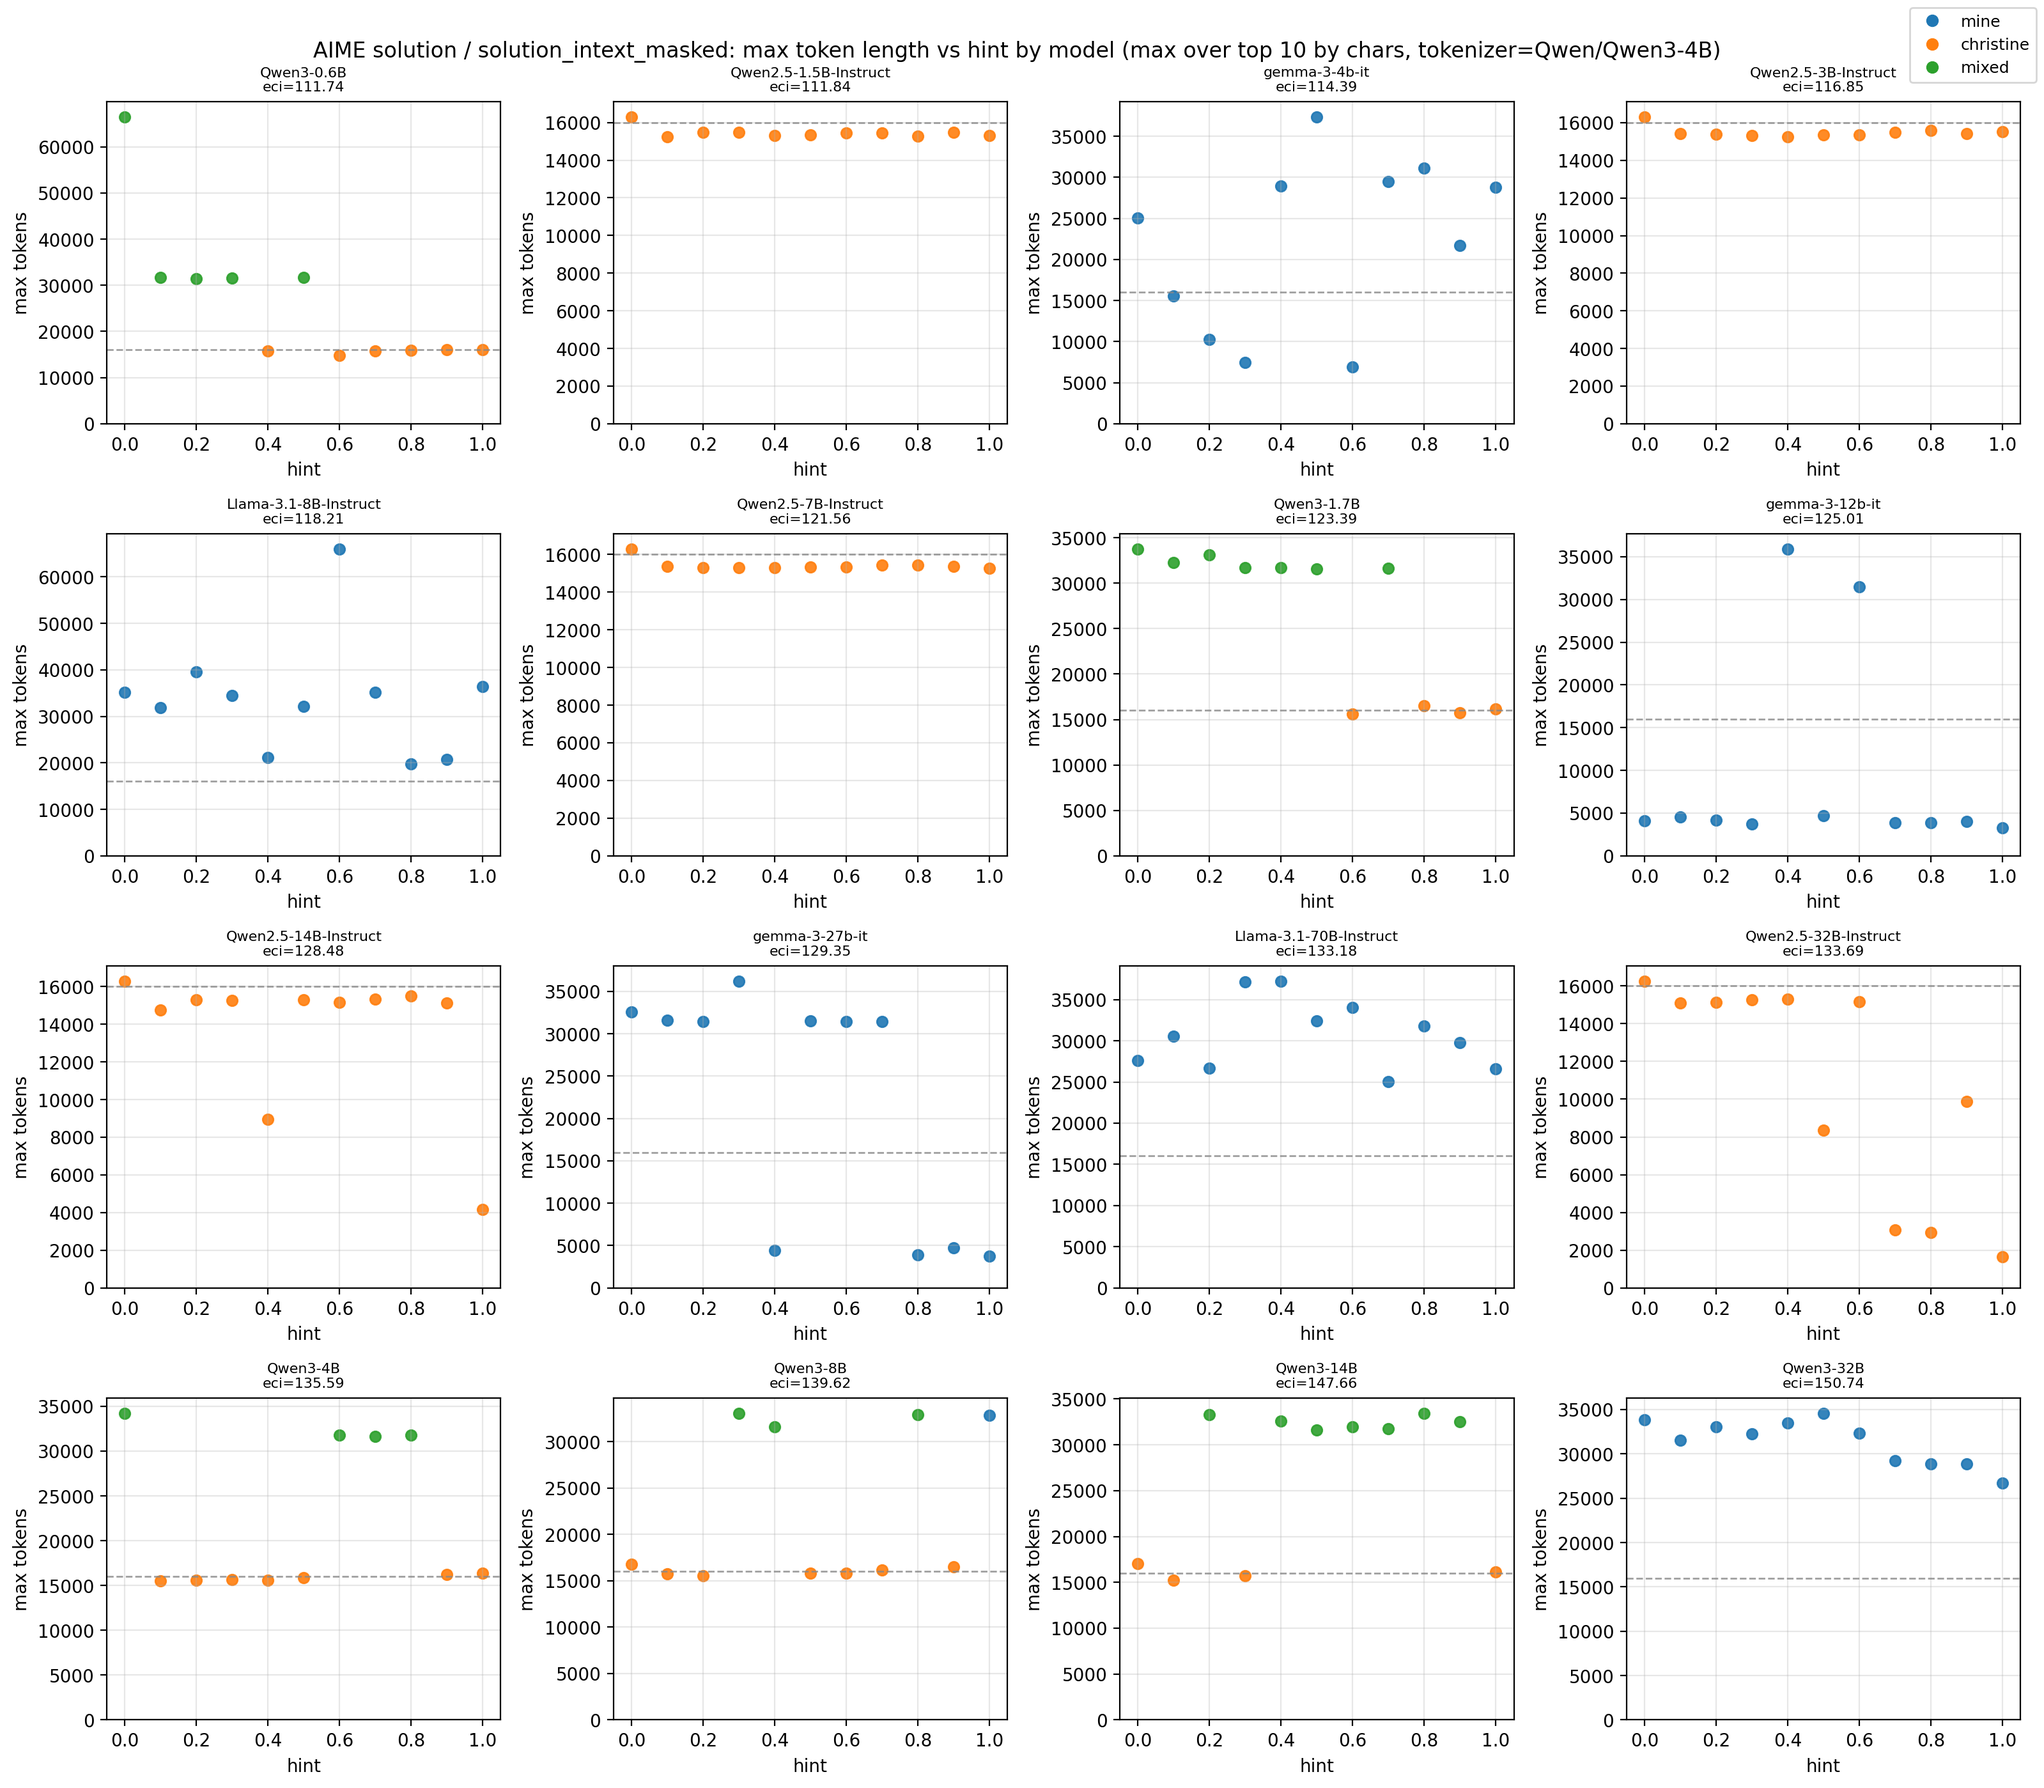
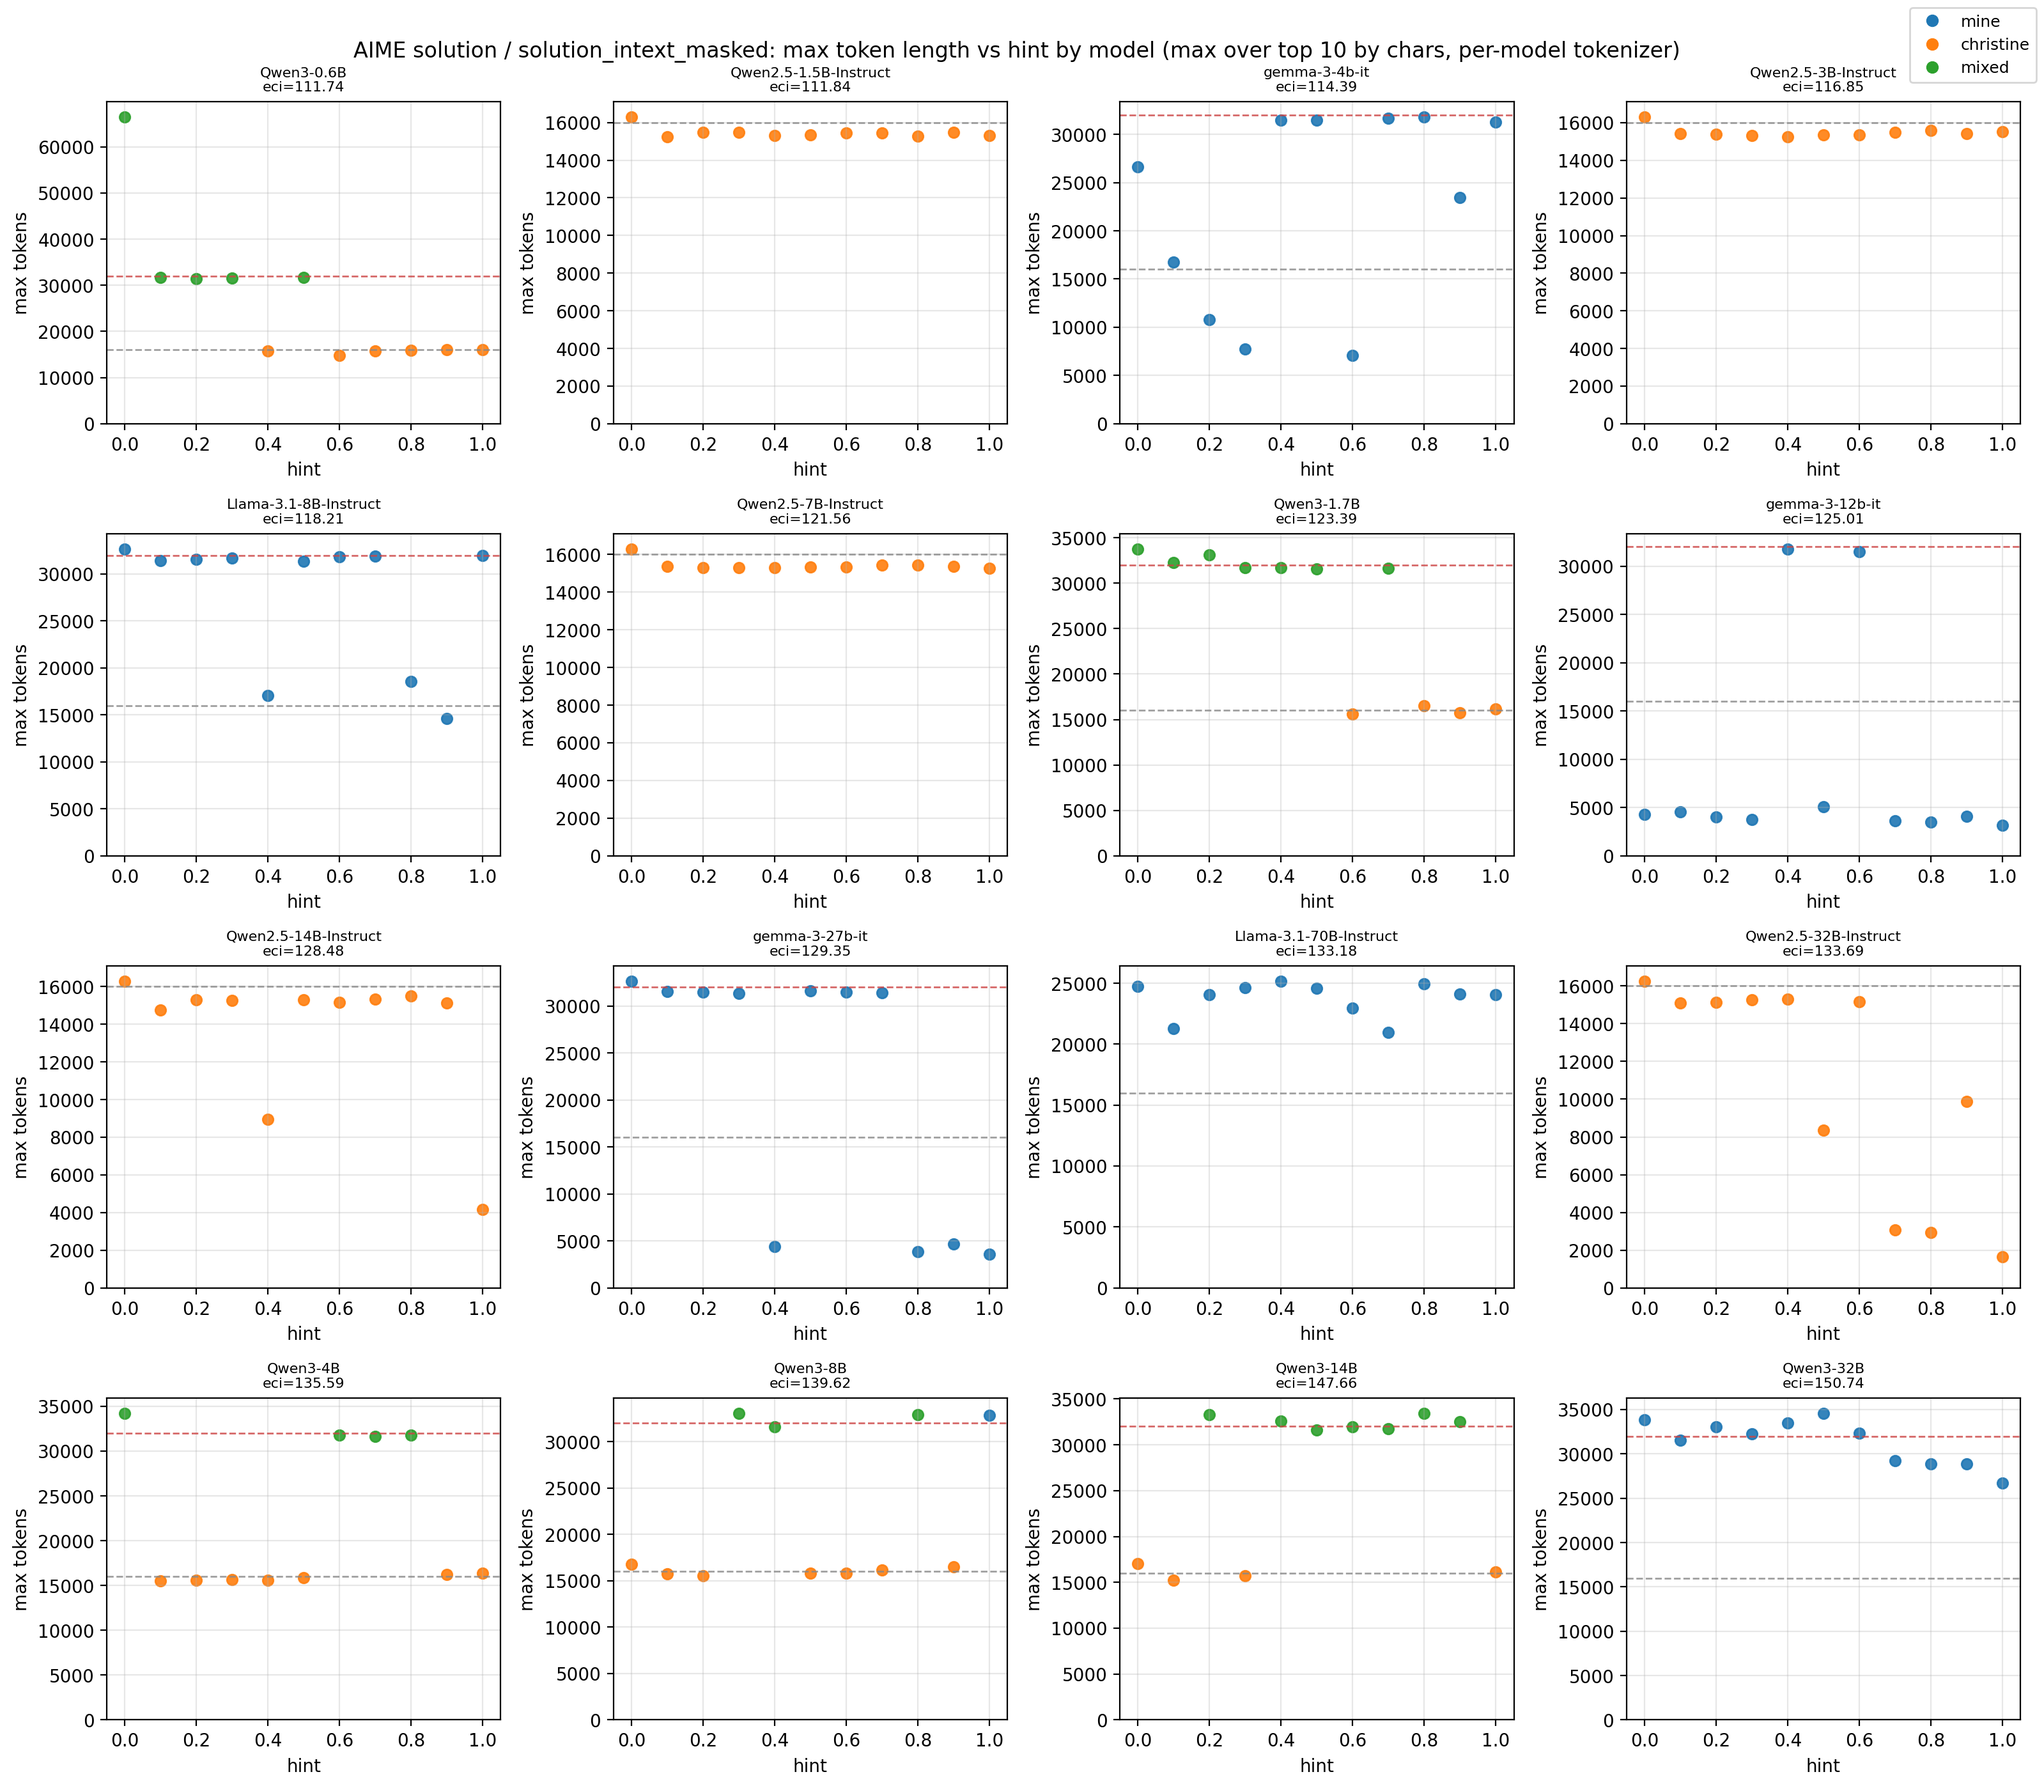
make sure the corect tokenizer is used

diff --git a/suze_experiments/20260321/plot_max_tokens_vs_hint_all_models.py b/suze_experiments/20260321/plot_max_tokens_vs_hint_all_models.py
@@ -16,11 +16,12 @@ DATA_ROOT = Path("suze_experiments/20260321/consolidated_hinted_results_v2_regra
 DATASET_FAMILY = "aime_solution"
 SOLVER_FILE = "solution_intext_masked.jsonl"
 
-# Use the same tokenizer setup as current Qwen3-4B inspection script.
-TOKENIZER_NAME = "Qwen/Qwen3-4B"
-LOCAL_TOKENIZER_SNAPSHOT = Path(
-    "/nlp/scr/suzeva/hf_cache/models--Qwen--Qwen3-4B/snapshots/1cfa9a7208912126459214e8b04321603b3df60c"
-)
+FAMILY_TOKENIZER_IDS: dict[str, str] = {
+    "Llama-3.1": "meta-llama/Llama-3.1-8B-Instruct",
+    "Qwen2.5": "Qwen/Qwen2.5-1.5B-Instruct",
+    "Qwen3": "Qwen/Qwen3-0.6B",
+    "gemma-3": "google/gemma-3-4b-it",
+}
 
 MODEL_LIST = [
     "Llama-3.1-70B-Instruct",
@@ -62,17 +63,27 @@ OWNER_COLORS = {
 }
 
 
-def load_tokenizer() -> AutoTokenizer:
-    if LOCAL_TOKENIZER_SNAPSHOT.exists():
-        print(f"Loading tokenizer from local snapshot: {LOCAL_TOKENIZER_SNAPSHOT}")
-        return AutoTokenizer.from_pretrained(
-            str(LOCAL_TOKENIZER_SNAPSHOT),
-            trust_remote_code=True,
-            local_files_only=True,
-        )
+_tokenizer_cache: dict[str, AutoTokenizer] = {}
 
-    print(f"Loading tokenizer from model id: {TOKENIZER_NAME}")
-    return AutoTokenizer.from_pretrained(TOKENIZER_NAME, trust_remote_code=True)
+
+def _tokenizer_hf_id(model_name: str) -> str:
+    for prefix, hf_id in FAMILY_TOKENIZER_IDS.items():
+        if model_name.startswith(prefix):
+            return hf_id
+    raise ValueError(
+        f"No tokenizer mapping for model '{model_name}'. "
+        f"Add its family prefix to FAMILY_TOKENIZER_IDS."
+    )
+
+
+def get_tokenizer(model_name: str) -> AutoTokenizer:
+    hf_id = _tokenizer_hf_id(model_name)
+    if hf_id not in _tokenizer_cache:
+        print(f"Loading tokenizer for {model_name} → {hf_id}")
+        _tokenizer_cache[hf_id] = AutoTokenizer.from_pretrained(
+            hf_id, trust_remote_code=True,
+        )
+    return _tokenizer_cache[hf_id]
 
 
 def load_eci_map(path: Path) -> dict[str, float]:
@@ -235,7 +246,7 @@ def inspect_hint_file(path: Path, tokenizer: AutoTokenizer) -> dict[str, Any]:
     }
 
 
-def collect_df(tokenizer: AutoTokenizer) -> pd.DataFrame:
+def collect_df() -> pd.DataFrame:
     family_dir = DATA_ROOT / DATASET_FAMILY
     if not family_dir.exists():
         raise FileNotFoundError(f"Missing family directory: {family_dir}")
@@ -246,6 +257,8 @@ def collect_df(tokenizer: AutoTokenizer) -> pd.DataFrame:
         if not model_dir.exists():
             print(f"WARNING missing model dir: {model_dir}")
             continue
+
+        tokenizer = get_tokenizer(model)
 
         for hint in HINT_LEVELS:
             path = model_dir / f"hint_fraction_{hint:.1f}" / SOLVER_FILE
@@ -337,6 +350,8 @@ def plot_metric_df(
         ax.grid(True, alpha=0.3)
         if y_col == "max_tokens":
             ax.axhline(16000, color="#888888", linestyle="--", linewidth=1.0, alpha=0.8)
+            if model_y_max * 1.05 >= 32000:
+                ax.axhline(32000, color="#cc4444", linestyle="--", linewidth=1.0, alpha=0.8)
         ax.set_xlim(-0.05, 1.05)
         ax.set_ylim(0, model_y_max * 1.05)
 
@@ -346,7 +361,7 @@ def plot_metric_df(
     fig.suptitle(
         f"AIME solution / {SOLVER_FILE.removesuffix('.jsonl')}: "
         f"{title_metric} vs hint by model "
-        f"(max over top {TOP_K_LONGEST_BY_CHARS} by chars, tokenizer={TOKENIZER_NAME})",
+        f"(max over top {TOP_K_LONGEST_BY_CHARS} by chars, per-model tokenizer)",
         fontsize=12,
     )
     present_owners = [k for k in OWNER_COLORS if (df["owner_label"] == k).any()]
@@ -372,8 +387,7 @@ def main() -> None:
         print(f"Using existing CSV (skipping recompute): {out_csv}")
         df = pd.read_csv(out_csv)
     else:
-        tokenizer = load_tokenizer()
-        df = collect_df(tokenizer)
+        df = collect_df()
         df.to_csv(out_csv, index=False)
 
     if REUSE_EXISTING_CSV and out_owner_csv.exists():
@@ -432,5 +446,5 @@ def main() -> None:
 
 
 if __name__ == "__main__":
-    # conda run -n ed python suze_experiments/20260321/plot_max_tokens_vs_hint_all_models.py
+    # python suze_experiments/20260321/plot_max_tokens_vs_hint_all_models.py
     main()
